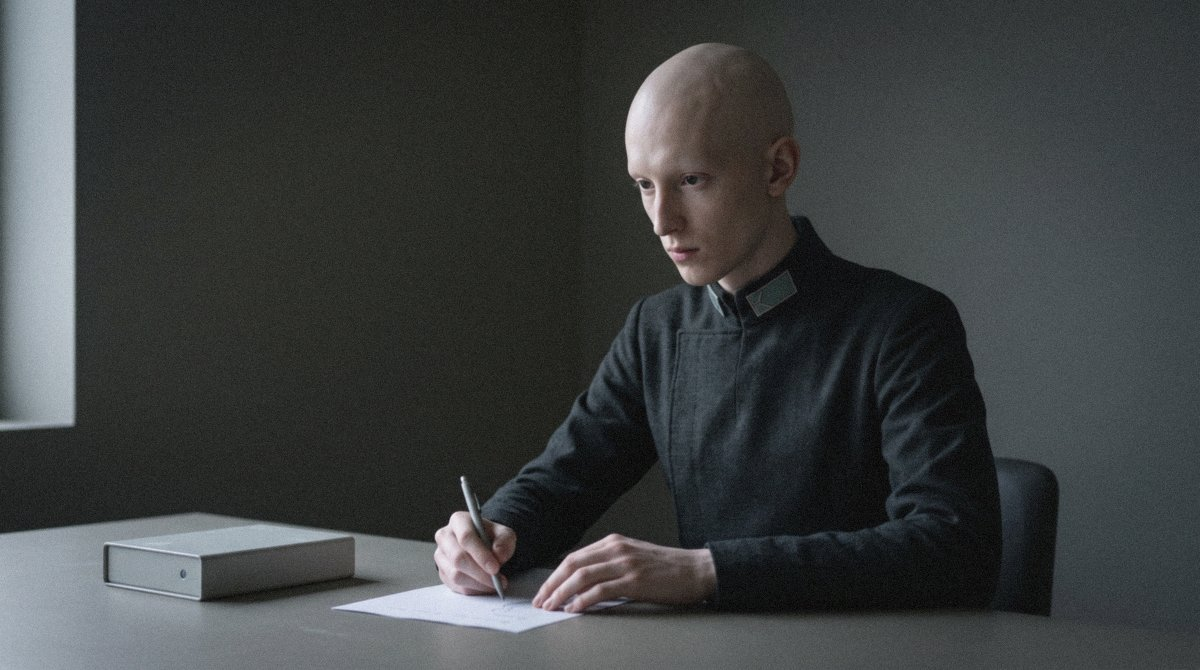
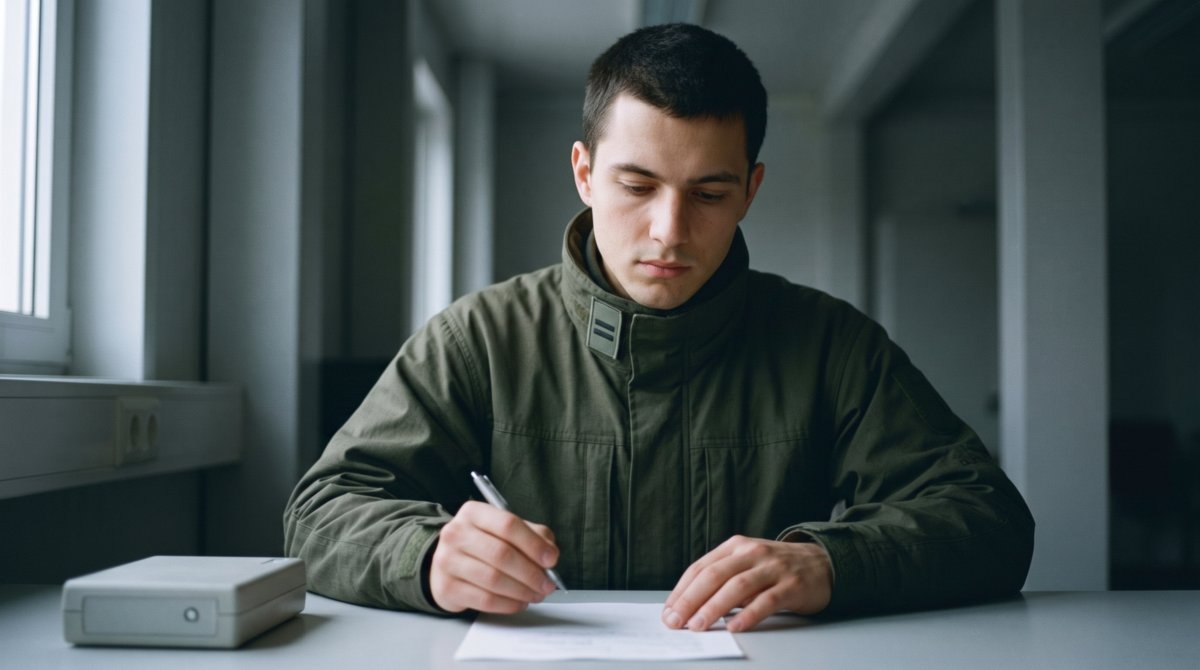
Re-make Toval and Sylvie Harrow
Toval to the Krenyi page (almost human, Survey Corps shell); Sylvie Harrow without period office furniture.

diff --git a/story-bible/images.md b/story-bible/images.md
@@ -1954,7 +1954,8 @@ with a bronze cast, the Undersong's nickel-iron in it.
 
 - **`sylvie-harrow.jpg`** — a model statement, *no sentence that is false*, and
   nothing that catches.
-  > Cinematic wide portrait of a woman in her forties seated at a plain table in an unremarkable habitat office, upper body, mid-answer to someone out of frame, pleasant and cooperative and entirely at ease, hands loosely together on the table. Neat ordinary professional clothing. Even, flat, perfectly adequate light with nothing dramatic in it; a plain wall, and an empty table in front of her. Nothing in the frame is out of place and nothing in it is interesting. Cool neutral palette. 16:9 landscape.
+  *(Revised 11 October 2026: Dermot asked why she had a filing cabinet behind her. The prompt never asked for one; the generator furnished "office" with its stock twentieth-century props. Now a documentary photograph, with the room's colour from lived-in things and period office furniture negated.)*
+  > Candid documentary photograph taken inside the world by a 29th-century camera, available light: a woman in her forties seated at a plain table in an unremarkable interview room aboard a space habitat, upper body, mid-answer to someone out of frame, pleasant and cooperative and entirely at ease, hands loosely together on the table. Neat ordinary clothing in a warm muted colour. Even, perfectly adequate daylight with nothing dramatic in it; behind her a smooth painted wall in a soft warm tone, one healthy potted plant on a low shelf, and nothing else; an empty table in front of her. Nothing in the frame is out of place and nothing in it is interesting. Photographed, not rendered: real skin with fine texture, cloth with a real weave and creases, high-ISO grain, a real lens with shallow depth of field, natural colour. Negative: filing cabinets, paper files, folders, binders, desk phone, office cubicle, partition, clock, whiteboard, noticeboard, computer, monitor, screen, keyboard, readable text, lettering, numerals, signage or written characters of any script anywhere in frame; visible lamp, light fitting or bulb; studio backdrop, glamour lighting, corporate headshot, posed smiling to camera; 3D render, CGI, airbrushed, waxy skin, glossy stock photograph. 16:9 landscape.
   - **The frame must have nothing to catch on**, which is the hardest brief here.
     No shadow across the eyes, no held look, no tell. It reads as a competent
     witness because that is exactly what every audit found.
@@ -4068,7 +4069,8 @@ reference, and Toval takes Syra's.
 - **`toval.jpg`** — Krenyi, one of the Quiet-Built, Cadet on Threshold Station's boundary desk under Syra; being trained out of rounding up.
   The desk: a young Krenyi writing a figure by hand, the pen stopped. Built on the human frame and strange only in stillness; pale, elegant, no grey-alien cues. Syra's filed portrait is the kind's reference. Cadet marks minimal.
   References: `src/images/characters/syra.jpg`
-  > Candid documentary photograph, 16:9 landscape, the face in the upper third of the frame, attention off-frame, at work, never posed to camera, dressed for the work and the place, modest, nothing that invites the viewer. A young Krenyi of the Quiet-Built, built on the human frame, tall and slender and very pale with fine regular features, large calm dark eyes and no hair, completely still, in Star Rangers service dress, plain and well kept, carrying small geometric rank marks only: a plain-finished tab at the collar, shapes and a single colour insert and nothing else. No name tape, no nameplate, no stitched badge, no printed words, no letters and no numerals anywhere on the clothing. with the collar tab a cadet's plainest form and its single insert pale grey-green, seated at a plain matte desk on a boundary station, a sheet of paper before him and a plain pen stopped above a half-written figure, his eyes on the paper with the unreadable attention of someone deciding not to round up, the room's light even and cool from one side. The desk carries only paper and one sealed plain housing with a single small unlit indicator. No screens, no dials, no readable marks on the paper, no lettering anywhere. Negative: readable text, lettering, numerals, signage, labels, branding or written characters of any script anywhere in frame; holograms, projected light, glowing displays, screens, monitors, consoles, dials, gauges, meters, knobs, toggles, tube screens, exposed cables, tablets, laptops; visible lamp, light fitting or bulb; flat studio backdrop, gradient background, glamour lighting, corporate headshot, posed smiling to camera; weapons. grey alien, huge black eyes, elf ears, prosthetic forehead ridges, glowing skin, Vulcan, android, smile. Photographed, not rendered: real skin with fine texture and the slight unevenness of a living face, even on a pale hairless head; cloth with a real weave, creases and a little lint; high-ISO grain, a real lens with shallow depth of field and slight softness toward the corners, the window light cool and a touch under-exposed, muted natural colour. Render negatives: 3D render, CGI, waxy skin, porcelain skin, airbrushed, over-smooth surfaces, perfect symmetry, glossy stock photograph.
+  > Candid documentary photograph, 16:9 landscape, the face in the upper third of the frame, attention off-frame, at work, never posed to camera, dressed for the work and the place, modest, nothing that invites the viewer. A young Krenyi of the Quiet-Built, built on the human frame and able to pass as almost human: a young man, slender, handsome by ordinary standards, with fine regular features, calm dark eyes, short dark hair and an ordinary healthy complexion, as the first reference image shows his kind, nothing strange about him on inspection and something strange only in how completely still he is, in the Survey Corps field uniform: a modular shell in deep olive over a close-fitting dark liner, cut like practical civilian workwear with a high soft collar, plain and well kept, and not a military tunic; one small plain-finished tab seated magnetically at one side of the collar carrying two short bars and a pale grey-green insert, and nothing else. No paired collar tabs, no epaulettes, no shoulder boards, no row of buttons, no belt, no name tape, no nameplate, no stitched badge, no printed words, no letters and no numerals anywhere on the clothing, seated at a plain matte desk on a boundary station, a sheet of paper before him and a plain pen stopped above a half-written figure, his eyes on the paper with the unreadable attention of someone deciding not to round up, the room's light even and cool from one side. The desk carries only paper and one sealed plain housing with a single small unlit indicator. No screens, no dials, no readable marks on the paper, no lettering anywhere. Negative: readable text, lettering, numerals, signage, labels, branding or written characters of any script anywhere in frame; holograms, projected light, glowing displays, screens, monitors, consoles, dials, gauges, meters, knobs, toggles, tube screens, exposed cables, tablets, laptops; visible lamp, light fitting or bulb; flat studio backdrop, gradient background, glamour lighting, corporate headshot, posed smiling to camera; weapons. grey alien, huge black eyes, elf ears, prosthetic forehead ridges, glowing skin, Vulcan, android, smile, bald head, shaved head, gaunt, sickly pallor, albino. Photographed, not rendered: real skin with fine texture and the slight unevenness of a living face, even on a pale hairless head; cloth with a real weave, creases and a little lint; high-ISO grain, a real lens with shallow depth of field and slight softness toward the corners, the window light cool and a touch under-exposed, muted natural colour. Render negatives: 3D render, CGI, waxy skin, porcelain skin, airbrushed, over-smooth surfaces, perfect symmetry, glossy stock photograph.
+  - *(Revised 11 October 2026: Dermot asked which human-looking characters look odder than they should, with Toval as his example. The prompt had invented "very pale… no hair", which no page says; the Krenyi page says a Krenyi passes as almost human to a low-context observer and is attractive by most humanoid standards, and Syra, the kind's reference, has dark hair. Now an ordinary-looking young man, strange only in stillness.)*
   - **Strange in stillness only.** The page says the passing fails on time, not on inspection; the camera is allowed one still moment.
   - **Delivered 7 October 2026**, variation 1 of 2 (`gemini-3.1-flash-image`, 2K), through `import-image.ps1` at finish strength 1: the stillness and the stopped pen; a lens on the housing was healed out with the housing's own face.
 

diff --git a/CHANGELOG.md b/CHANGELOG.md
@@ -6,6 +6,8 @@ The format loosely follows [Keep a Changelog](https://keepachangelog.com/en/1.1.
 
 ## [Unreleased]
 
+- **Toval and Sylvie Harrow re-made** (`src/images/characters/toval.jpg`, `sylvie-harrow.jpg`, both pages' `image_alt`, `story-bible/images.md`, 2026-10-11, from Dermot's questions about human-looking characters who look odder than they should). Toval's prompt had invented a pale, hairless look the record never gives; he now passes as almost human, as the Krenyi page says, in the Survey Corps' olive field shell with a Cadet's single tab. Sylvie Harrow's office had acquired a filing cabinet the prompt never asked for; her room now takes its colour from lived-in things.
+
 - **The corps shell colours, adopted** (`src/lore/rank-insignia-and-uniform.md`, `story-bible/uniforms-and-insignia.md`, `story-bible/intake-2026-10-11.md`, 2026-10-11, Dermot's approval). An extension of the rank page, which already said the garment's colour carries the corps: Survey deep olive, Safety dark ochre-brown, Science deep teal, Frontier dust brown, Engineering graphite with steel piping, dark and muted so any lighter track tab reads on any shell. Three shades changed from the September proposal so that no shell repeats a tab colour.
 
 - **The photographic finish keeps colour when it lifts the shadows** (`scripts/photo-finish.py`, 2026-10-11, from Dermot's question whether the uniforms and habitat interiors are too grey). The black-floor lift added the same light to every channel, which greyed mid-dark colour (Toval's portrait fell from saturation 0.19 to 0.12 on the lift alone); it now lifts luminance as a per-pixel gain, capped near black, so hue and saturation survive. Already-filed images are unchanged.

diff --git a/src/characters/sylvie-harrow.md b/src/characters/sylvie-harrow.md
@@ -9,7 +9,7 @@ aliases: []
 tags: [human, eden, witness, orbital-habitats-compact, undercover-pets.com]
 description: "A claims assessor and the principal witness in one of DI Albercombe's open referrals — whose statement contains no false sentence, no inconsistency, and nothing that catches. Two intelligences have independently noticed that this is the problem."
 image: "sylvie-harrow.jpg"
-image_alt: "Sylvie Harrow, a woman in her forties with shoulder-length brown hair, in a dark cardigan over a grey top, seated at a bare grey table in a plain office with her hands together, smiling pleasantly at someone out of frame. A filing cabinet and a partition stand behind her. Nothing in the room is out of place."
+image_alt: "Sylvie Harrow, a woman in her forties with brown hair loosely tied back, in a rust-coloured jumper, seated at a bare metal table in a plain warm-walled room with her hands together, answering someone out of frame pleasantly, a potted plant on a shelf behind her."
 ---
 
 Sylvie Harrow assesses claims for the Eden Mutual Assurance Society, which is to say she has spent eleven years professionally distinguishing what happened from what a document says happened. She is good at it, well thought of, punctual with her filings, and the principal witness in a minor Deck 11 matter that arrived on [Detective Inspector Wendell Albercombe](/star-rangers/characters/wendell-albercombe/)'s desk looking exactly as boring as his referrals usually look, and has stayed open considerably longer than they usually stay.

diff --git a/src/characters/toval.md b/src/characters/toval.md
@@ -10,7 +10,7 @@ aliases:
 tags: [krenyi, cadet, boundary, threshold-station, survey-corps, season-5]
 description: "A young Krenyi Cadet on Threshold Station's boundary desk in 2831 UCSD, under Syra, being trained out of the habit of rounding up. He wrote down what the instruments carried on the morning of Dock Seven."
 image: "toval.jpg"
-image_alt: "A young Krenyi, pale and hairless, in dark grey service dress with a plain tab at the collar, seated at a bare desk in a dim room and writing by hand on a single sheet of paper, a plain sealed housing on the desk beside him, cool light from a window at the left"
+image_alt: "A young Krenyi who could pass for an ordinary young man, short dark hair, in the deep olive field shell of the Survey Corps with a single small tab of two bars at the collar, seated very still at a plain desk by a window and writing by hand on a sheet of paper, a plain sealed housing on the desk beside him."
 ---
 
 Toval is Krenyi, one of the Quiet-Built, and young by his people's reckoning, which they keep in their own calendar and he gives in the material form when asked: younger than sixty, by the Corps' conversion, which for a Krenyi is the beginning of a life rather than the middle of one. He holds Cadet standing in the [Survey Corps](/star-rangers/lore/star-rangers-academy/), confirmed by the college in 2831 UCSD, and is posted to [Threshold Station's](/star-rangers/lore/boundary-zones/) boundary desk under [Syra](/star-rangers/characters/syra/), who is training him.
